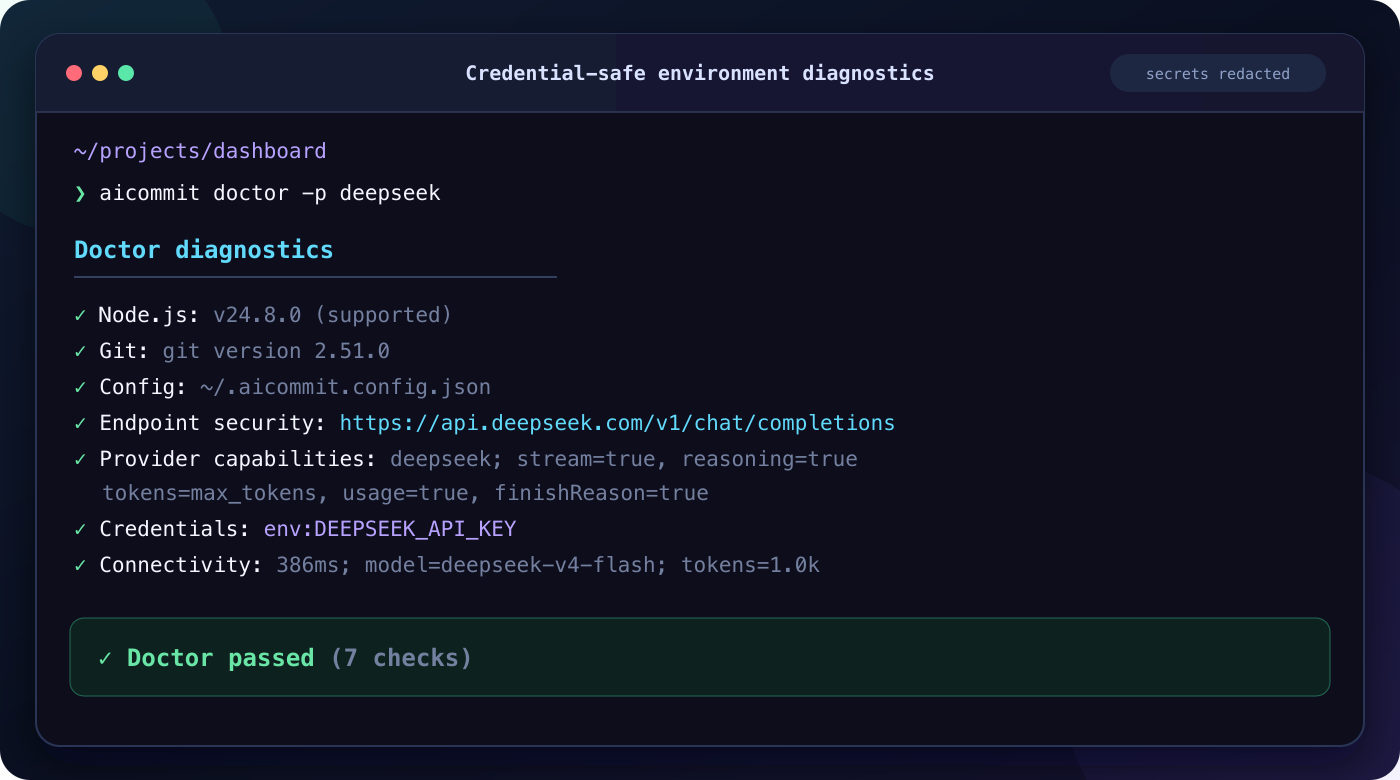
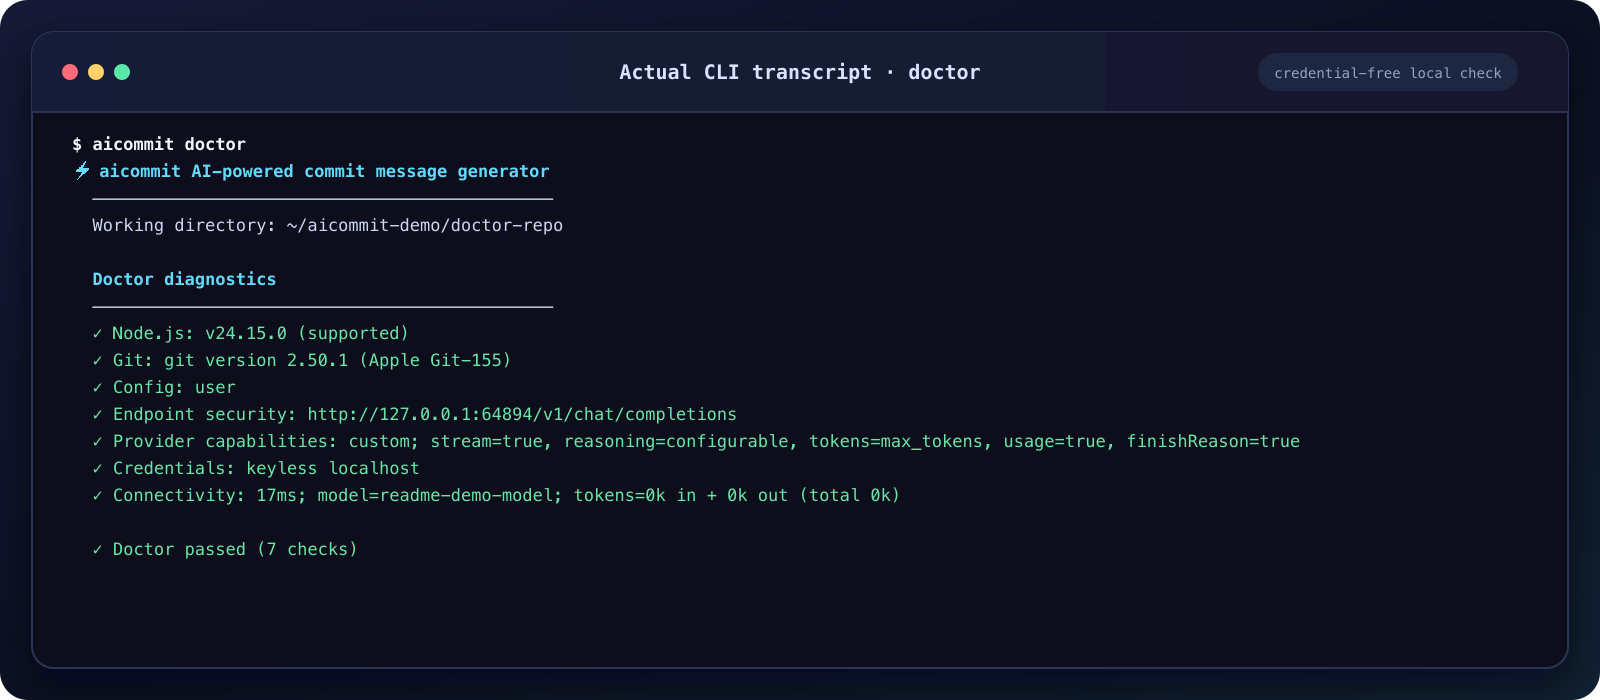
docs: 刷新 README 截图与文案，反映真实 CLI 终端输出
- 重新生成 docs/assets/readme 下 4 组 png/svg 截图，使用真实终端会话内容替换插画
- 在 README.md 与 README.zh-CN.md 增加截图来源说明，标注为临时 Git 仓库 + 本地 mock provider

diff --git a/README.md b/README.md
@@ -6,6 +6,8 @@ AI-powered git commit message generator: reads your diff, asks an AI model for a
 
 ## Usage preview
 
+These screenshots are captured from real interactive terminal sessions in temporary Git repositories against a credential-free local mock provider.
+
 ### Generate a conventional commit
 
 ![AICommit generating and creating a conventional commit](docs/assets/readme/generate-commit.png)

diff --git a/README.zh-CN.md b/README.zh-CN.md
@@ -6,6 +6,8 @@ AI 驱动的 Git 提交信息生成器：读取 diff，请 AI 模型生成符合
 
 ## 使用预览
 
+以下截图来自临时 Git 仓库中的真实交互式终端会话。Provider 使用无需凭据的本地 mock。
+
 ### 生成 Conventional Commit
 
 ![AICommit 生成并创建 Conventional Commit](docs/assets/readme/generate-commit.png)
